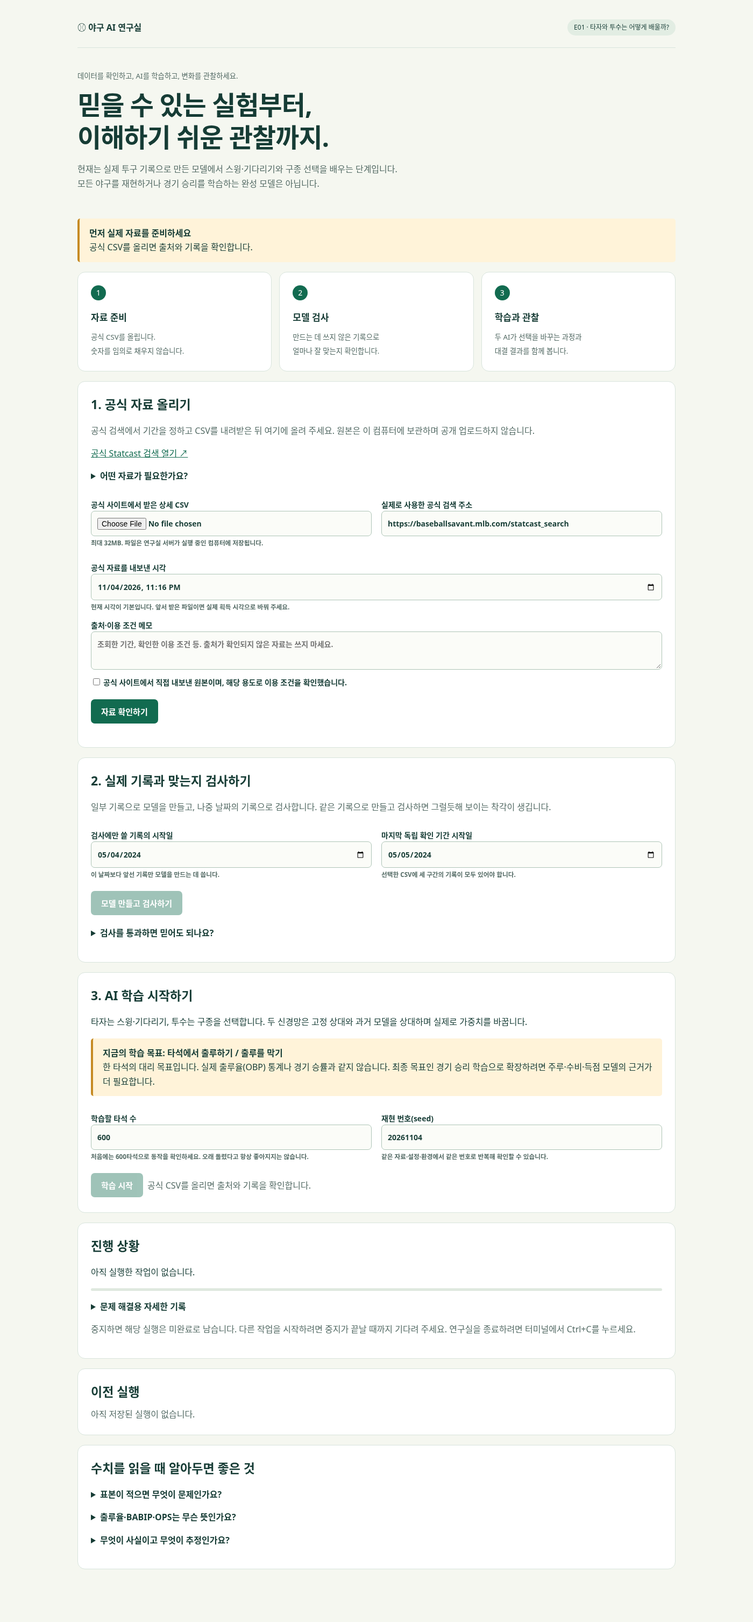
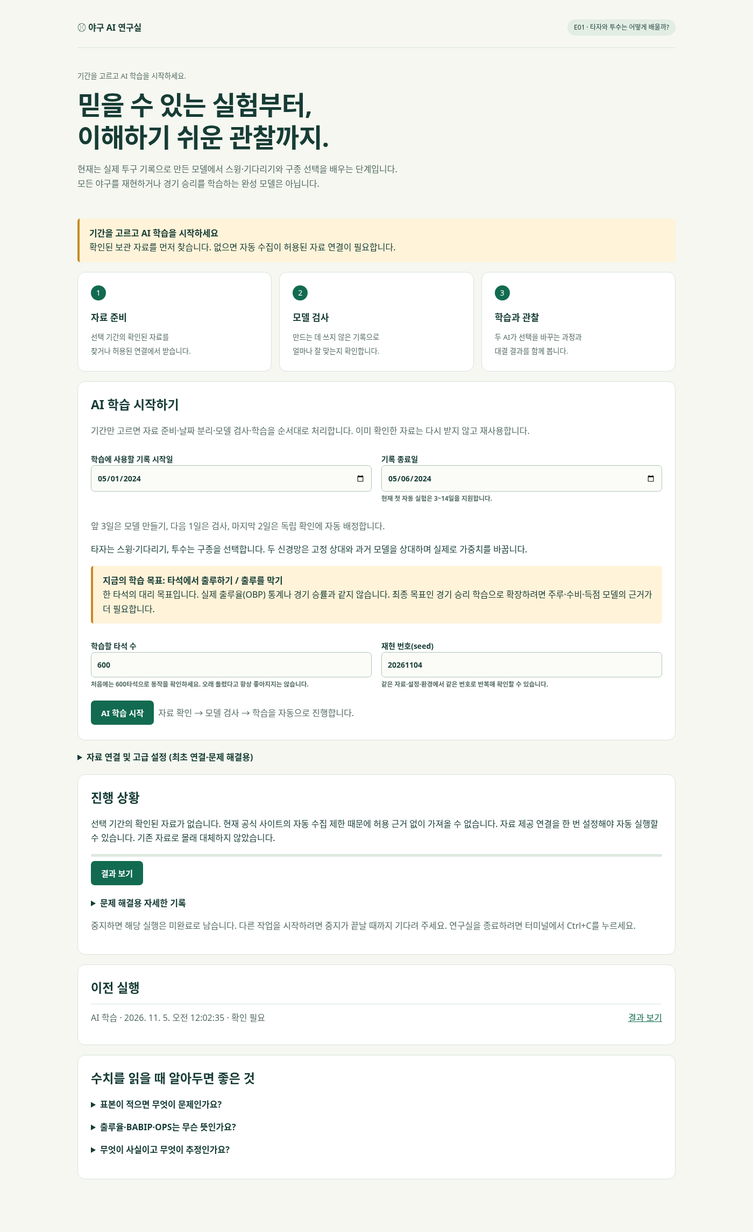
feat: run period-based data preparation and learning from one button

diff --git a/src/baseball_lab/web/workbench.html b/src/baseball_lab/web/workbench.html
@@ -2,24 +2,24 @@
 <style>
 :root{color-scheme:light;--ink:#163c35;--muted:#546b65;--line:#d8e4dc;--green:#126b50;--paper:#f5f7f0}*{box-sizing:border-box}body{margin:0;background:var(--paper);color:var(--ink);font:16px/1.65 system-ui,'Malgun Gothic',sans-serif}main{max-width:1160px;margin:auto;padding:36px 24px 80px}header{display:flex;align-items:center;justify-content:space-between;border-bottom:1px solid var(--line);padding-bottom:22px}.brand{font-weight:800}.tag{font-size:12px;background:#e2ede3;padding:5px 12px;border-radius:20px}.hero{padding:38px 0 18px}h1{font-size:clamp(30px,5vw,48px);line-height:1.25;letter-spacing:-1px;margin:12px 0}h2{font-size:23px;margin:0 0 10px}h3{font-size:17px;margin:8px 0}.muted,small{color:var(--muted)}.steps{display:grid;grid-template-columns:repeat(3,1fr);gap:14px}.card,section{background:#fff;border:1px solid var(--line);border-radius:14px;padding:24px;margin:18px 0}.steps .card{margin:0}.num{background:var(--green);color:#fff;border-radius:50%;display:inline-grid;place-items:center;width:28px;height:28px;font-size:14px;margin-bottom:10px}.row{display:flex;gap:18px;align-items:start;flex-wrap:wrap}.row>*{flex:1;min-width:230px}label{display:block;font-size:14px;font-weight:600;margin:12px 0}input,textarea{display:block;width:100%;padding:11px;border:1px solid #adc4b6;border-radius:7px;font:inherit;color:inherit;background:#fbfcf8}input[type=checkbox]{width:auto;display:inline;margin-right:6px}textarea{min-height:64px}button,.button{display:inline-block;background:var(--green);color:#fff;border:0;border-radius:7px;padding:12px 19px;font:600 15px system-ui;text-decoration:none;cursor:pointer;margin:8px 8px 4px 0}button:disabled{opacity:.4;cursor:not-allowed}.secondary{background:#e6eee6;color:var(--ink)}.notice{border-left:4px solid #c68b24;padding:14px 18px;background:#fff3d9;border-radius:5px;margin:18px 0}.ok{background:#e5f3e9;border-color:#126b50}.hidden{display:none}details{margin:16px 0}summary{cursor:pointer;font-weight:600}pre{white-space:pre-wrap;overflow-wrap:anywhere;background:#142d28;color:#d4e5da;padding:18px;border-radius:8px;max-height:260px;overflow:auto;font:13px/1.6 monospace}a{color:var(--green)}.run{display:flex;gap:12px;align-items:center;justify-content:space-between;padding:12px 0;border-top:1px solid var(--line)}.badge{font-size:12px;border:1px solid var(--line);border-radius:20px;padding:3px 8px}.progress{height:5px;background:#dfe9df;border-radius:5px;overflow:hidden}.progress.running:after{content:'';display:block;width:30%;height:100%;background:var(--green);animation:move 2s infinite}@keyframes move{from{margin-left:-30%}to{margin-left:100%}}@media(max-width:700px){.steps{grid-template-columns:1fr}header{align-items:start;gap:12px}main{padding:22px 16px}}
 </style><main><header><span class="brand">⚾ 야구 AI 연구실</span><span class="tag">E01 · 타자와 투수는 어떻게 배울까?</span></header>
-<div class="hero"><small>데이터를 확인하고, AI를 학습하고, 변화를 관찰하세요.</small><h1>믿을 수 있는 실험부터,<br>이해하기 쉬운 관찰까지.</h1><p class="muted">현재는 실제 투구 기록으로 만든 모델에서 스윙·기다리기와 구종 선택을 배우는 단계입니다.<br>모든 야구를 재현하거나 경기 승리를 학습하는 완성 모델은 아닙니다.</p></div>
+<div class="hero"><small>기간을 고르고 AI 학습을 시작하세요.</small><h1>믿을 수 있는 실험부터,<br>이해하기 쉬운 관찰까지.</h1><p class="muted">현재는 실제 투구 기록으로 만든 모델에서 스윙·기다리기와 구종 선택을 배우는 단계입니다.<br>모든 야구를 재현하거나 경기 승리를 학습하는 완성 모델은 아닙니다.</p></div>
 <div id="readiness" class="notice" role="status">실험 준비 상태를 확인하고 있어요.</div>
-<div class="steps"><div class="card"><span class="num">1</span><h3>자료 준비</h3><small>공식 CSV를 올립니다.<br>숫자를 임의로 채우지 않습니다.</small></div><div class="card"><span class="num">2</span><h3>모델 검사</h3><small>만드는 데 쓰지 않은 기록으로<br>얼마나 잘 맞는지 확인합니다.</small></div><div class="card"><span class="num">3</span><h3>학습과 관찰</h3><small>두 AI가 선택을 바꾸는 과정과<br>대결 결과를 함께 봅니다.</small></div></div>
-<section><h2>1. 공식 자료 올리기</h2><p class="muted">공식 검색에서 기간을 정하고 CSV를 내려받은 뒤 여기에 올려 주세요. 원본은 이 컴퓨터에 보관하며 공개 업로드하지 않습니다.</p><a href="https://baseballsavant.mlb.com/statcast_search" target="_blank" rel="noopener">공식 Statcast 검색 열기 ↗</a><details><summary>어떤 자료가 필요한가요?</summary><p>처음에는 2024년 정규시즌 5월 1일~6일처럼 짧은 기간을 권합니다. <strong>구종·카운트·투구 결과가 있는 상세 투구 CSV</strong>가 필요합니다. 선수 시즌 합계 표로는 이 모델을 학습할 수 없습니다.</p><p>공식 페이지의 조회/내보내기 기능과 이용 조건을 확인하세요. 자동 수집 제한 문구가 있어 이 화면에서는 자동 수집하지 않습니다. 여러 날짜를 한 CSV로 내보내면 편합니다.</p></details>
+<div class="steps"><div class="card"><span class="num">1</span><h3>자료 준비</h3><small>선택 기간의 확인된 자료를<br>찾거나 허용된 연결에서 받습니다.</small></div><div class="card"><span class="num">2</span><h3>모델 검사</h3><small>만드는 데 쓰지 않은 기록으로<br>얼마나 잘 맞는지 확인합니다.</small></div><div class="card"><span class="num">3</span><h3>학습과 관찰</h3><small>두 AI가 선택을 바꾸는 과정과<br>대결 결과를 함께 봅니다.</small></div></div>
+<section><h2>AI 학습 시작하기</h2><p class="muted">기간만 고르면 자료 준비·날짜 분리·모델 검사·학습을 순서대로 처리합니다. 이미 확인한 자료는 다시 받지 않고 재사용합니다.</p><div class="row"><label>학습에 사용할 기록 시작일<input id="periodStart" type="date" value="2024-05-01" required></label><label>기록 종료일<input id="periodEnd" type="date" value="2024-05-06" required><small>현재 첫 자동 실험은 3~14일을 지원합니다.</small></label></div><p id="splitPreview" class="muted"></p><p>타자는 스윙·기다리기, 투수는 구종을 선택합니다. 두 신경망은 고정 상대와 과거 모델을 상대하며 실제로 가중치를 바꿉니다.</p><div class="notice"><strong>지금의 학습 목표: 타석에서 출루하기 / 출루를 막기</strong><br>한 타석의 대리 목표입니다. 실제 출루율(OBP) 통계나 경기 승률과 같지 않습니다. 최종 목표인 경기 승리 학습으로 확장하려면 주루·수비·득점 모델의 근거가 더 필요합니다.</div><div class="row"><label>학습할 타석 수<input id="episodes" type="number" min="20" max="100000" value="600" step="1"><small>처음에는 600타석으로 동작을 확인하세요. 오래 돌렸다고 항상 좋아지지는 않습니다.</small></label><label>재현 번호(seed)<input id="seed" type="number" min="0" max="2147483647" value="20261104"><small>같은 자료·설정·환경에서 같은 번호로 반복해 확인할 수 있습니다.</small></label></div><button id="trainBtn">AI 학습 시작</button><span id="trainHint" class="muted">자료 확인부터 자동으로 진행합니다.</span></section>
+<details id="providerSettings"><summary>자료 연결 및 고급 설정 (최초 연결·문제 해결용)</summary><p>현재 보관 자료가 없으면 자동 수집이 허용된 제공 연결이 필요합니다. 공식 사이트의 접근 가능 여부와 자동 수집 허용은 다릅니다. 허용 근거가 없으면 요청하거나 가짜 자료로 대체하지 않습니다.</p><label>자동 수집을 별도로 허용받은 근거 / 공개 문서 주소<input id="authorization" type="text" maxlength="2000" placeholder="해당하는 경우에만 입력. API 키나 비밀번호를 넣지 마세요."></label><section><h2>1. 공식 자료 올리기</h2><p class="muted">공식 검색에서 기간을 정하고 CSV를 내려받은 뒤 여기에 올려 주세요. 원본은 이 컴퓨터에 보관하며 공개 업로드하지 않습니다.</p><a href="https://baseballsavant.mlb.com/statcast_search" target="_blank" rel="noopener">공식 Statcast 검색 열기 ↗</a><details><summary>어떤 자료가 필요한가요?</summary><p>처음에는 2024년 정규시즌 5월 1일~6일처럼 짧은 기간을 권합니다. <strong>구종·카운트·투구 결과가 있는 상세 투구 CSV</strong>가 필요합니다. 선수 시즌 합계 표로는 이 모델을 학습할 수 없습니다.</p><p>공식 페이지의 조회/내보내기 기능과 이용 조건을 확인하세요. 자동 수집 제한 문구가 있어 이 화면에서는 자동 수집하지 않습니다. 여러 날짜를 한 CSV로 내보내면 편합니다.</p></details>
 <form id="uploadForm"><div class="row"><label>공식 사이트에서 받은 상세 CSV<input id="csv" type="file" accept=".csv,text/csv" required><small>최대 32MB. 파일은 연구실 서버가 실행 중인 컴퓨터에 저장됩니다.</small></label><label>실제로 사용한 공식 검색 주소<input id="source" type="url" value="https://baseballsavant.mlb.com/statcast_search" required></label></div><label>공식 자료를 내보낸 시각<input id="acquiredAt" type="datetime-local" required><small>현재 시각이 기본입니다. 앞서 받은 파일이면 실제 획득 시각으로 바꿔 주세요.</small></label><label>출처·이용 조건 메모<textarea id="usage" placeholder="조회한 기간, 확인한 이용 조건 등. 출처가 확인되지 않은 자료는 쓰지 마세요." required></textarea></label><label><input id="attest" type="checkbox" required>공식 사이트에서 직접 내보낸 원본이며, 해당 용도로 이용 조건을 확인했습니다.</label><button id="uploadBtn">자료 확인하기</button><span id="uploadStatus" class="muted"></span></form><p id="dataset" class="muted"></p></section>
 <section><h2>2. 실제 기록과 맞는지 검사하기</h2><p class="muted">일부 기록으로 모델을 만들고, 나중 날짜의 기록으로 검사합니다. 같은 기록으로 만들고 검사하면 그럴듯해 보이는 착각이 생깁니다.</p><div class="row"><label>검사에만 쓸 기록의 시작일<input type="date" id="trainBefore" value="2024-05-04"><small>이 날짜보다 앞선 기록만 모델을 만드는 데 씁니다.</small></label><label>마지막 독립 확인 기간 시작일<input type="date" id="testFrom" value="2024-05-05"><small>선택한 CSV에 세 구간의 기록이 모두 있어야 합니다.</small></label></div><button id="fitBtn">모델 만들고 검사하기</button><p id="fitSummary" class="muted"></p><details><summary>검사를 통과하면 믿어도 되나요?</summary><p>기초 검사 통과는 제한된 실험을 시작할 조건입니다. 현실의 인과관계나 최적 전략이 입증됐다는 뜻은 아닙니다. 수비·주루·능력·피로처럼 검증되지 않은 요소는 사용하지 않습니다. 희소한 구간과 예측 오차는 결과 화면에서 확인하세요.</p></details></section>
-<section><h2>3. AI 학습 시작하기</h2><p>타자는 스윙·기다리기, 투수는 구종을 선택합니다. 두 신경망은 고정 상대와 과거 모델을 상대하며 실제로 가중치를 바꿉니다.</p><div class="notice"><strong>지금의 학습 목표: 타석에서 출루하기 / 출루를 막기</strong><br>한 타석의 대리 목표입니다. 실제 출루율(OBP) 통계나 경기 승률과 같지 않습니다. 최종 목표인 경기 승리 학습으로 확장하려면 주루·수비·득점 모델의 근거가 더 필요합니다.</div><div class="row"><label>학습할 타석 수<input id="episodes" type="number" min="20" max="100000" value="600" step="1"><small>처음에는 600타석으로 동작을 확인하세요. 오래 돌렸다고 항상 좋아지지는 않습니다.</small></label><label>재현 번호(seed)<input id="seed" type="number" min="0" max="2147483647" value="20261104"><small>같은 자료·설정·환경에서 같은 번호로 반복해 확인할 수 있습니다.</small></label></div><button id="trainBtn" disabled>학습 시작</button><span id="trainHint" class="muted">자료와 모델 검사를 먼저 완료해 주세요.</span></section>
-<section id="taskPanel"><h2>진행 상황</h2><p id="jobMessage" role="status" aria-live="polite">아직 실행한 작업이 없습니다.</p><div id="progress" class="progress"></div><button id="cancelBtn" class="secondary hidden">현재 작업 중지</button><a id="resultLink" class="button hidden" target="_blank" rel="noopener">결과 보기</a><details><summary>문제 해결용 자세한 기록</summary><pre id="logs">기록 없음</pre></details><p class="muted">중지하면 해당 실행은 미완료로 남습니다. 다른 작업을 시작하려면 중지가 끝날 때까지 기다려 주세요. 연구실을 종료하려면 터미널에서 Ctrl+C를 누르세요.</p></section>
+</details><section id="taskPanel"><h2>진행 상황</h2><p id="jobMessage" role="status" aria-live="polite">아직 실행한 작업이 없습니다.</p><div id="progress" class="progress"></div><button id="cancelBtn" class="secondary hidden">현재 작업 중지</button><a id="resultLink" class="button hidden" target="_blank" rel="noopener">결과 보기</a><details><summary>문제 해결용 자세한 기록</summary><pre id="logs">기록 없음</pre></details><p class="muted">중지하면 해당 실행은 미완료로 남습니다. 다른 작업을 시작하려면 중지가 끝날 때까지 기다려 주세요. 연구실을 종료하려면 터미널에서 Ctrl+C를 누르세요.</p></section>
 <section><h2>이전 실행</h2><div id="runs" class="muted">아직 저장된 실행이 없습니다.</div></section>
 <section><h2>수치를 읽을 때 알아두면 좋은 것</h2><details><summary>표본이 적으면 무엇이 문제인가요?</summary><p>우연히 나온 몇 번의 결과가 실력처럼 보일 수 있습니다. 기록 수와 오차 범위를 함께 보고, 다른 기간과 상대에서도 확인해야 합니다. 평균 쪽으로 보정해도 운이나 편향이 완전히 사라지지는 않습니다.</p></details><details><summary>출루율·BABIP·OPS는 무슨 뜻인가요?</summary><p>출루율(OBP)은 안타·볼넷·사구로 얼마나 자주 출루했는지 보는 지표입니다. 실책·선택수비 출루는 포함하지 않습니다. 현재 타석 학습의 성공률과 구분해야 합니다.</p><p>BABIP는 홈런과 삼진을 제외한 인플레이 타구의 안타 비율입니다. 타구의 질·수비·구장·우연이 함께 영향을 줍니다. OPS는 출루율과 장타율의 합이지 확률이 아닙니다.</p></details><details><summary>무엇이 사실이고 무엇이 추정인가요?</summary><p><strong>실제 기록</strong>은 CSV 관측, <strong>모델 추정</strong>은 그 자료에서 계산한 확률, <strong>모델 대결</strong>은 추정 모델에서 AI가 만든 가상 결과입니다. 서로 다른 색과 설명으로 표시합니다. 사람의 의도나 선택하지 않은 행동의 결과는 기록만으로 확정할 수 없습니다.</p></details></section>
 </main><script>
 const token='__SESSION_TOKEN__',$=id=>document.getElementById(id);$('acquiredAt').value=new Date(Date.now()-new Date().getTimezoneOffset()*60000).toISOString().slice(0,16);let busy=false,uploading=false;
 function alertError(error){$('jobMessage').textContent='확인이 필요해요: '+error.message;$('taskPanel').scrollIntoView({behavior:'smooth',block:'center'})}
 async function api(path,payload){let r=await fetch(path,{method:'POST',headers:{'Content-Type':'application/json','X-Lab-Token':token},body:JSON.stringify(payload)}),data=await r.json();if(!r.ok)throw Error(data.error);return data}
-async function start(kind){try{let options=kind==='fit'?{train_before:$('trainBefore').value,test_from:$('testFrom').value}:{episodes:Number($('episodes').value),seed:Number($('seed').value)};await api('/api/start',{kind,options});await refresh();$('taskPanel').scrollIntoView({behavior:'smooth'})}catch(e){alertError(e)}}
-$('fitBtn').onclick=()=>start('fit');$('trainBtn').onclick=()=>start('train');$('cancelBtn').onclick=async()=>{try{await api('/api/cancel',{});await refresh()}catch(e){alertError(e)}};
+async function start(kind){try{let options=kind==='fit'?{train_before:$('trainBefore').value,test_from:$('testFrom').value}:{start:$('periodStart').value,end:$('periodEnd').value,episodes:Number($('episodes').value),seed:Number($('seed').value),authorization_reference:$('authorization').value};await api('/api/start',{kind,options});await refresh();$('taskPanel').scrollIntoView({behavior:'smooth'})}catch(e){alertError(e)}}
+$('fitBtn').onclick=()=>start('fit');$('trainBtn').onclick=()=>start('run');$('cancelBtn').onclick=async()=>{try{await api('/api/cancel',{});await refresh()}catch(e){alertError(e)}};
 $('uploadForm').onsubmit=async event=>{event.preventDefault();let file=$('csv').files[0];if(!file)return;uploading=true;$('uploadBtn').disabled=true;$('uploadStatus').textContent='원본을 확인하고 있어요…';try{if(file.size>32*1024*1024)throw Error('파일은 최대 32MB입니다.');let r=await fetch('/api/upload',{method:'POST',headers:{'X-Lab-Token':token,'X-Filename':encodeURIComponent(file.name),'X-Source-URL':encodeURIComponent($('source').value),'X-Acquired-At':encodeURIComponent(new Date($('acquiredAt').value).toISOString()),'X-Usage-Note':encodeURIComponent($('usage').value+'; acquisition time and official export attested by user')},body:file}),data=await r.json();if(!r.ok)throw Error(data.error);$('uploadStatus').textContent=data.message;await refresh()}catch(e){$('uploadStatus').textContent=e.message;alertError(e)}finally{uploading=false;$('uploadBtn').disabled=busy}};
 const statusName={queued:'대기 중',running:'진행 중',cancelling:'중지 중',cancelled:'중지됨',completed:'완료',failed:'확인 필요',interrupted:'연구실 종료로 중단됨'};
-async function refresh(){try{let r=await fetch('/api/state'),data=await r.json();if(!r.ok)throw Error(data.error);let ready=data.readiness,job=data.job;busy=!!job&&['queued','running','cancelling'].includes(job.status);$('readiness').className='notice'+(ready.ready?' ok':'');$('readiness').replaceChildren();let strong=document.createElement('strong');strong.textContent=ready.title;$('readiness').append(strong,document.createElement('br'),document.createTextNode(ready.reason));$('fitBtn').disabled=busy||uploading||!ready.dataset;$('trainBtn').disabled=busy||uploading||!ready.ready;$('uploadBtn').disabled=busy||uploading;$('trainHint').textContent=ready.ready?'검사 범위와 제약을 확인한 뒤 시작하세요.':ready.reason;if(ready.dataset){let d=ready.dataset;$('dataset').textContent=`기간 ${d.dates.join(' ~ ')} · 사용 가능한 투구 ${d.rows.toLocaleString()}개 / 원본 ${d.raw_rows.toLocaleString()}개 · 경기 ${d.games}개`;}if(ready.validation){let v=ready.validation;$('fitSummary').textContent=`독립 확인에 지원되는 기록 ${(v.test.coverage*100).toFixed(1)}% · 결과 분포 차이 ${(v.test.total_variation??0).toFixed(3)} · 자세한 조건별 오차는 결과에서 확인하세요.`}if(job){$('jobMessage').textContent=job.message;$('logs').textContent=job.logs.join('\n')||'실행을 준비하고 있어요.';$('progress').className='progress'+(busy?' running':'');$('cancelBtn').classList.toggle('hidden',!busy);$('cancelBtn').disabled=job.status==='cancelling';$('resultLink').classList.toggle('hidden',!job.report);if(job.report)$('resultLink').href=job.report;}$('runs').replaceChildren();if(!data.runs.length)$('runs').textContent='아직 저장된 실행이 없습니다.';data.runs.forEach(run=>{let row=document.createElement('div');row.className='run';let text=document.createElement('span');text.textContent=(run.kind==='fit'?'모델 검사':'AI 학습')+' · '+new Date(run.started_at).toLocaleString('ko-KR')+' · '+statusName[run.status];row.append(text);if(run.report){let a=document.createElement('a');a.textContent='결과 보기';a.href=run.report;a.target='_blank';a.rel='noopener';row.append(a)}$('runs').append(row)})}catch(e){$('jobMessage').textContent='연구실에 연결할 수 없어요. 터미널에서 서버가 실행 중인지 확인해 주세요.'}}
-refresh();setInterval(refresh,1500);
+async function refresh(){try{let r=await fetch('/api/state'),data=await r.json();if(!r.ok)throw Error(data.error);let ready=data.readiness,job=data.job;busy=!!job&&['queued','running','cancelling'].includes(job.status);$('readiness').className='notice'+(ready.ready?' ok':'');$('readiness').replaceChildren();let strong=document.createElement('strong');strong.textContent=ready.title;$('readiness').append(strong,document.createElement('br'),document.createTextNode(ready.reason));$('fitBtn').disabled=busy||uploading||!ready.dataset;$('trainBtn').disabled=busy||uploading;$('uploadBtn').disabled=busy||uploading;$('trainHint').textContent='자료 확인 → 모델 검사 → 학습을 자동으로 진행합니다.';if(ready.dataset){let d=ready.dataset;$('dataset').textContent=`기간 ${d.dates.join(' ~ ')} · 사용 가능한 투구 ${d.rows.toLocaleString()}개 / 원본 ${d.raw_rows.toLocaleString()}개 · 경기 ${d.games}개`;}if(ready.validation){let v=ready.validation;$('fitSummary').textContent=`독립 확인에 지원되는 기록 ${(v.test.coverage*100).toFixed(1)}% · 결과 분포 차이 ${(v.test.total_variation??0).toFixed(3)} · 자세한 조건별 오차는 결과에서 확인하세요.`}if(job){$('jobMessage').textContent=job.message;$('logs').textContent=job.logs.join('\n')||'실행을 준비하고 있어요.';$('progress').className='progress'+(busy?' running':'');$('cancelBtn').classList.toggle('hidden',!busy);$('cancelBtn').disabled=job.status==='cancelling';$('resultLink').classList.toggle('hidden',!job.report);if(job.report)$('resultLink').href=job.report;}$('runs').replaceChildren();if(!data.runs.length)$('runs').textContent='아직 저장된 실행이 없습니다.';data.runs.forEach(run=>{let row=document.createElement('div');row.className='run';let text=document.createElement('span');text.textContent=(run.kind==='fit'?'모델 검사':'AI 학습')+' · '+new Date(run.started_at).toLocaleString('ko-KR')+' · '+statusName[run.status];row.append(text);if(run.report){let a=document.createElement('a');a.textContent='결과 보기';a.href=run.report;a.target='_blank';a.rel='noopener';row.append(a)}$('runs').append(row)})}catch(e){$('jobMessage').textContent='연구실에 연결할 수 없어요. 터미널에서 서버가 실행 중인지 확인해 주세요.'}}
+function preview(){let first=new Date($('periodStart').value+'T00:00:00Z'),last=new Date($('periodEnd').value+'T00:00:00Z'),days=Math.round((last-first)/86400000)+1;if(!Number.isFinite(days)||days<3||days>14){$('splitPreview').textContent='독립 검사를 위해 3~14일을 선택하세요.';return}let fit=Math.max(1,Math.floor(days/2)),val=Math.max(1,Math.floor((days-fit)/2));$('splitPreview').textContent=`앞 ${fit}일은 모델 만들기, 다음 ${val}일은 검사, 마지막 ${days-fit-val}일은 독립 확인에 자동 배정합니다.`}['periodStart','periodEnd'].forEach(id=>$(id).onchange=preview);preview();refresh();setInterval(refresh,1500);
 </script></html>

diff --git a/src/baseball_lab/research/pipeline.py b/src/baseball_lab/research/pipeline.py
@@ -1,0 +1,87 @@
+"""One request: period selection, verified source/cache, calibration, validation, learning."""
+from dataclasses import dataclass
+from datetime import date,timedelta
+from pathlib import Path
+
+from baseball_lab.data.lineage import RawSource,content_hash,write_json
+from baseball_lab.data.statcast import acquire,audit,load_dataset
+from baseball_lab.outcome.empirical import fit,load_model
+from baseball_lab.tracking.evidence_report import write_report
+
+
+@dataclass(frozen=True)
+class Plan:
+    start: str
+    end: str
+
+    def __post_init__(self):
+        days=(date.fromisoformat(self.end)-date.fromisoformat(self.start)).days+1
+        if not 3<=days<=14:raise ValueError('최초 자동 실험 기간은 3~14일로 선택하세요. 세 독립 구간이 필요합니다.')
+
+    @property
+    def boundaries(self):
+        first=date.fromisoformat(self.start)
+        days=(date.fromisoformat(self.end)-first).days+1
+        fitting=max(1,days//2)
+        validation=max(1,(days-fitting)//2)
+        return (first+timedelta(days=fitting)).isoformat(),(first+timedelta(days=fitting+validation)).isoformat()
+
+
+def selected_dataset(cached,plan,output):
+    manifest=cached['manifest']
+    records=[row for row in cached['records'] if plan.start<=row['game_date']<=plan.end]
+    if not records:raise ValueError('선택한 기간에 사용 가능한 투구가 없습니다.')
+    m={**manifest,'used_rows':len(records),'games':len({r['game_pk'] for r in records}),
+       'date_range':[min(r['game_date'] for r in records),max(r['game_date'] for r in records)],
+       'selection':{'requested_dates':[plan.start,plan.end],'parent_dataset_version':manifest['dataset_version'],
+                    'outside_selected_period':len(cached['records'])-len(records),
+                    'missingness_scope':'raw source files; selected record count is used_rows'},
+       'normalized_checksum':content_hash(records)}
+    m['dataset_version']=content_hash({k:m[k] for k in ('schema_version','normalized_checksum','source_status')})
+    data={'manifest':m,'records':records};write_json(output/'dataset.json',data);write_json(output/'quality.json',m)
+    return data
+
+
+def run(plan,data_dir,output,*,episodes=600,seed=20261104,authorization_reference=None,test_only=False,progress=print):
+    output=Path(output);data_dir=Path(data_dir)
+    if output.exists() and any(output.iterdir()):raise ValueError('새 실행 폴더가 필요합니다.')
+    output.mkdir(parents=True)
+    before,test_from=plan.boundaries
+    write_json(output/'plan.json',{'start':plan.start,'end':plan.end,'train_before':before,'test_from':test_from,
+                                 'episodes':episodes,'seed':seed,'status':'preparing'})
+    try:
+        progress('단계 1/4 · 선택한 기간의 실제 자료를 찾고 있어요.',flush=True)
+        cached=None
+        cached_path=data_dir/'dataset.json'
+        if cached_path.exists():
+            candidate=load_dataset(cached_path)
+            low,high=candidate['manifest']['date_range']
+            if low<=plan.start and plan.end<=high:cached=candidate
+        if cached is None:
+            # No request is made without a separately supplied, persistent authorization basis.
+            if not authorization_reference:
+                raise PermissionError('선택 기간의 확인된 자료가 없습니다. 현재 공식 사이트의 자동 수집 제한 때문에 허용 근거 없이 가져올 수 없습니다. 자료 제공 연결을 한 번 설정해야 자동 실행할 수 있습니다. 기존 자료로 몰래 대체하지 않았습니다.')
+            acquisition=acquire(plan.start,plan.end,output/'raw',usage_note='Date-configured local research; no redistribution grant',authorization_reference=authorization_reference)
+            cached=audit([RawSource(**s) for s in acquisition['sources']],data_dir)
+        dataset=selected_dataset(cached,plan,output/'data')
+        progress(f"단계 2/4 · {len(dataset['records']):,}개 투구로 모델을 만들고 있어요.",flush=True)
+        artifact=fit(output/'data/dataset.json',output/'data',train_before=before,test_from=test_from,test_only=test_only,
+                     **({'min_support':1,'min_fit_rows':1,'min_holdout_rows':1} if test_only else {}))
+        progress('단계 3/4 · 사용하지 않은 기간으로 모델을 검사하고 있어요.',flush=True)
+        write_report(output,dataset=dataset,model=artifact)
+        model,_=load_model(output/'data/model.json',test_only=test_only)
+        progress('단계 4/4 · 검사한 환경에서 두 신경망의 학습을 시작합니다.',flush=True)
+        from baseball_lab.research.training import ResearchConfig,train
+        result=train(ResearchConfig(episodes=episodes,seed=seed,evaluate_every=min(episodes,200)),
+                     output/'data/model.json',output/'learning',test_only=test_only,progress=progress)
+        # Report redirects remain a relative file within this run; shared viewer is unchanged.
+        (output/'report.html').write_text('<!doctype html><meta charset="utf-8"><meta http-equiv="refresh" content="0;url=learning/report.html"><a href="learning/report.html">학습 결과 열기</a>',encoding='utf-8')
+        write_json(output/'plan.json',{'start':plan.start,'end':plan.end,'train_before':before,'test_from':test_from,
+                    'episodes':episodes,'seed':seed,'status':'completed','model_id':artifact['model_id'],
+                    'run_id':result['run_id'],'source_dataset_version':dataset['manifest']['dataset_version']})
+        return result
+    except Exception as exc:
+        # Preserve an already written validation report; failures never turn into synthetic training.
+        if not (output/'report.html').exists():write_report(output,failure={'error':str(exc),'research_executed':False})
+        write_json(output/'failure.json',{'error':str(exc),'synthetic_fallback':False,'research_completed':False})
+        raise

diff --git a/src/baseball_lab/web/server.py b/src/baseball_lab/web/server.py
@@ -31,7 +31,7 @@ class Workbench:
         now=time.monotonic()
         if not refresh and self._cache[1] is not None and now-self._cache[0]<5:
             return self._cache[1]
-        result={'ready':False,'title':'먼저 실제 자료를 준비하세요','reason':'공식 CSV를 올리면 출처와 기록을 확인합니다.',
+        result={'ready':False,'title':'기간을 고르고 AI 학습을 시작하세요','reason':'확인된 보관 자료를 먼저 찾습니다. 없으면 자동 수집이 허용된 자료 연결이 필요합니다.',
                 'model_id':None,'dataset':None,'issues':[],'warning':'현재 학습은 타석 출루 연습입니다. 경기 승리 학습이 아닙니다.'}
         try:
             quality=self.data/'quality.json'
@@ -95,8 +95,18 @@ class Workbench:
             self._idle()
             from datetime import date
             if not isinstance(options,dict):raise ValueError('작업 설정은 객체여야 합니다.')
-            if kind not in ('fit','train'):raise ValueError('지원하지 않는 작업')
-            if kind=='fit':
+            if kind not in ('fit','train','run'):raise ValueError('지원하지 않는 작업')
+            if kind=='run':
+                from baseball_lab.research.pipeline import Plan
+                plan=Plan(str(options.get('start','')),str(options.get('end','')))
+                episodes=options.get('episodes',600);seed=options.get('seed',20261104)
+                if type(episodes) is not int or not 20<=episodes<=100000:raise ValueError('학습 타석 수는 20~100,000 사이의 정수입니다.')
+                if type(seed) is not int or not 0<=seed<=2**31-1:raise ValueError('재현 번호 범위를 확인하세요.')
+                extra=['--mode','run','--start',plan.start,'--end',plan.end,'--episodes',str(episodes),'--seed',str(seed)]
+                reference=options.get('authorization_reference','')
+                if not isinstance(reference,str) or len(reference)>2000:raise ValueError('자료 연결 설정을 확인하세요.')
+                if reference.strip():extra.extend(['--authorization-reference',reference.strip()])
+            elif kind=='fit':
                 before=date.fromisoformat(str(options.get('train_before','')))
                 after=date.fromisoformat(str(options.get('test_from','')))
                 if before>=after:raise ValueError('검증 시작일은 최종 확인 시작일보다 빨라야 합니다.')
@@ -132,7 +142,7 @@ class Workbench:
                 process=subprocess.Popen(command,stdout=subprocess.PIPE,stderr=subprocess.STDOUT,
                                          cwd=self.root,env=env,text=True,encoding='utf-8',errors='replace')
                 self.process=process
-                self.job.update(status='running',message='기록을 검사하고 있어요.' if self.job['kind']=='fit' else '두 AI가 타석 대결을 학습하고 있어요.')
+                self.job.update(status='running',message='자료 준비부터 순서대로 진행하고 있어요.' if self.job['kind']=='run' else '기록을 검사하고 있어요.' if self.job['kind']=='fit' else '두 AI가 타석 대결을 학습하고 있어요.')
                 self._persist()
             with (output/'output.log').open('w',encoding='utf-8') as log:
                 for line in process.stdout:
@@ -140,7 +150,8 @@ class Workbench:
                     with self.lock:
                         self.job['logs'].append(line.rstrip())
                         progress=re.search(r'학습 (\d+)/(\d+)타석',line)
-                        if progress and self.job['kind']=='train':
+                        if line.startswith('단계 '):self.job['message']=line.strip()
+                        if progress and self.job['kind'] in ('train','run'):
                             done,total=map(int,progress.groups())
                             self.job.update(completed_episodes=done,target_episodes=total,message=f'학습 {done:,}/{total:,}타석 · 현재까지의 결과를 볼 수 있어요.')
                         if (output/'result/report.html').exists():
@@ -155,6 +166,10 @@ class Workbench:
                 status='cancelled' if cancelled else 'failed' if code or invalid_fit else 'completed'
                 message='작업을 중지했습니다.' if cancelled else '검사를 통과하지 못했어요. 아래 이유를 확인하세요.' if invalid_fit else '문제가 생겼어요. 아래 기록과 도움말을 확인하세요.' if code else '완료했어요. 결과 보기를 눌러 주세요.'
                 report=output/'result/report.html'
+                failure=output/'result/failure.json'
+                if failure.exists() and not cancelled:
+                    try:message=json.loads(failure.read_text(encoding='utf-8'))['error']
+                    except (OSError,ValueError,KeyError):pass
                 self.job.update(status=status,message=message,exit_code=code,completed_at=utc_now(),
                     report=f'/reports/{job_id}/result/report.html' if report.exists() else None)
                 self._persist()

diff --git a/tests/test_pipeline.py b/tests/test_pipeline.py
@@ -1,0 +1,36 @@
+from datetime import date
+from pathlib import Path
+from unittest.mock import patch
+import pytest
+from baseball_lab.research.pipeline import Plan,run,selected_dataset
+from baseball_lab.data.lineage import write_json
+
+
+def test_period_splits_are_ordered_and_nonoverlapping():
+    assert Plan('2024-05-01','2024-05-06').boundaries==('2024-05-04','2024-05-05')
+    assert Plan('2024-05-01','2024-05-03').boundaries==('2024-05-02','2024-05-03')
+    for end in ('2024-05-02','2024-05-16','2024-04-30'):
+        with pytest.raises(ValueError):Plan('2024-05-01',end)
+
+
+def test_missing_source_never_falls_back_to_mock_or_network(tmp_path):
+    with patch('baseball_lab.research.pipeline.acquire') as download:
+        with pytest.raises(PermissionError,match='허용 근거'):
+            run(Plan('2024-05-01','2024-05-06'),tmp_path/'absent',tmp_path/'run')
+        download.assert_not_called()
+    assert (tmp_path/'run/failure.json').exists()
+    assert not (tmp_path/'run/learning').exists()
+
+
+def test_exact_period_filter_and_automatic_pipeline(tmp_path):
+    # Use the existing explicit MOCK_TEST_ONLY fixture builder; no research claims.
+    from test_evidence import fixture_data
+    root,source,data=fixture_data.__wrapped__(tmp_path)
+    result=run(Plan('2024-05-01','2024-05-03'),root/'data',root/'automatic',episodes=24,
+               test_only=True,progress=lambda *a,**k:None)
+    assert result['training_executed'] and not result['research_executed']
+    assert (root/'automatic/learning/checkpoints/pa_000024.json').exists()
+    assert (root/'automatic/report.html').exists()
+    filtered=selected_dataset(data,Plan('2024-05-02','2024-05-04'),root/'selection')
+    assert all(r['game_date']>='2024-05-02' for r in filtered['records'])
+    assert filtered['manifest']['used_rows']==192

diff --git a/src/baseball_lab/cli.py b/src/baseball_lab/cli.py
@@ -9,7 +9,7 @@ from baseball_lab.experiments.registry import REPOSITORY_ROOT
 
 def main():
     parser=argparse.ArgumentParser(description='야구 AI 연구실 · 실제 데이터와 실행 근거로 관찰하는 E01')
-    parser.add_argument('--mode',choices=('prepare','audit','fit','inspect','train','replay','baseline','web'),default='web')
+    parser.add_argument('--mode',choices=('prepare','audit','fit','inspect','train','replay','baseline','web','run'),default='web')
     parser.add_argument('--port',type=int,default=8765,help='웹 연구실 포트')
     parser.add_argument('--authorization-reference',help='자동 수집에 별도로 허용받은 근거 (기본은 수동 내보내기)')
     parser.add_argument('--data-dir',type=Path,default=REPOSITORY_ROOT/'data/local/statcast')
@@ -45,7 +45,10 @@ def main():
         from baseball_lab.data.statcast import acquire,audit,manual_source,load_dataset
         from baseball_lab.outcome.empirical import fit,load_model
         from baseball_lab.tracking.evidence_report import write_report
-        if args.mode=='prepare':
+        if args.mode=='run':
+            from baseball_lab.research.pipeline import Plan,run
+            run(Plan(args.start,args.end),args.data_dir,output,episodes=args.episodes,seed=args.seed,authorization_reference=args.authorization_reference)
+        elif args.mode=='prepare':
             acquisition=acquire(args.start,args.end,args.data_dir/'raw',usage_note=args.usage_note,authorization_reference=args.authorization_reference)
             sources=[RawSource(**s) for s in acquisition['sources']]
             dataset=audit(sources,args.data_dir)

diff --git a/README.md b/README.md
@@ -16,10 +16,11 @@ python scripts/quickstart.py --open
 
 ## 화면에서는 이렇게 진행하세요
 
-1. **자료 준비:** 공식 Statcast 검색에서 상세 투구 CSV를 내보내고, 웹 화면에서 파일·검색 주소·획득 시각·이용 조건 메모를 올립니다. 처음에는 2024년 5월 1~6일 정규시즌처럼 짧은 기간을 권합니다.
-2. **모델 검사:** 화면의 기본 날짜는 앞선 3일로 모델을 만들고, 다음 1일로 검사하고, 마지막 2일로 독립 확인합니다. 본인의 CSV 기간과 맞춰 주세요. ‘모델 만들고 검사하기’를 누릅니다.
-3. **학습:** 검사를 통과하면 ‘학습 시작’ 버튼이 활성화됩니다. 처음에는 기본 600타석으로 확인하세요.
-4. **관찰:** 진행 상황에서 완료한 학습 타석과 기록을 보고, ‘결과 보기’를 눌러 투구 재생·상황별 선택 확률·전략 변화·실제 기록과의 차이를 확인합니다. 필요하면 중지하고 새 실험을 시작할 수 있습니다.
+1. **기간 선택:** 학습에 사용할 실제 기록의 시작일·종료일을 고릅니다.
+2. **AI 학습 시작:** 버튼 하나로 자료 확인/확보 → 기간 자동 분리 → 모델 검사 → 학습을 진행합니다.
+3. **관찰:** 진행 단계·학습 기록·중지·결과 보기를 사용합니다.
+
+수동 파일 업로드와 개별 모델 검사는 고급 설정으로 옮겼습니다. 확인된 보관 자료가 선택 기간을 포함하면 자동으로 재사용하고, 원본을 변경하지 않은 채 해당 기간만 필터링합니다. 자료 제공 연결이 없으면 임의 자료로 대체하지 않습니다. 현재 공식 자동 수집의 별도 허용 근거는 확보하지 않았으므로, 보관 자료가 없는 첫 실행은 연결 필요 상태로 멈출 수 있습니다.
 
 **화면이 열리는 것과 연구 준비가 끝나는 것은 다릅니다.** 실제 자료나 검증이 부족하면 학습을 시작하지 않습니다. 그럴듯한 가짜 수치를 채우거나, 학습이 항상 좋아진다고 표시하지 않습니다.
 

diff --git a/docs/web-validation.md b/docs/web-validation.md
@@ -27,3 +27,9 @@
 ## 화면
 
 [한국어 웹 실행실 캡처](images/workbench.png). 실제 데이터가 없는 상태의 화면이며 숫자를 채운 데모가 아니다. 한국어/서울 시간대 브라우저에서 촬영했다. 모바일 레이아웃도 확인했다.
+
+## 0.6 기간 기반 한 번 실행
+
+기본 화면은 시작일·종료일과 AI 학습 시작이다. 수동 업로드·개별 검사는 접힌 고급 설정에 남겼다. 서버는 검증된 보관 자료의 범위를 확인하고, 선택한 기간만 새 실행의 자료로 필터링한다. 날짜를 세 구간으로 자동 분리하며 검사 통과 전에는 학습하지 않는다. 보관 자료가 없고 허용된 자료 연결도 없으면 네트워크 수집 없이 실패 이유를 표시한다.
+
+전체 테스트 **113 passed**. 기간 경계·선택 범위 필터·허용 근거 없는 네트워크 호출 방지·테스트 전용 입력의 전체 자동 실행 경로를 확인했다. 실제 브라우저에서 날짜 입력·기본 버튼·접힌 수동 설정·한 번 클릭 후 실제 자료 연결 부재의 실패 이유·결과 링크를 확인했고 페이지 오류는 없었다. 실제 자료를 자동 확보해 연구 학습을 끝냈다는 의미는 아니다.
